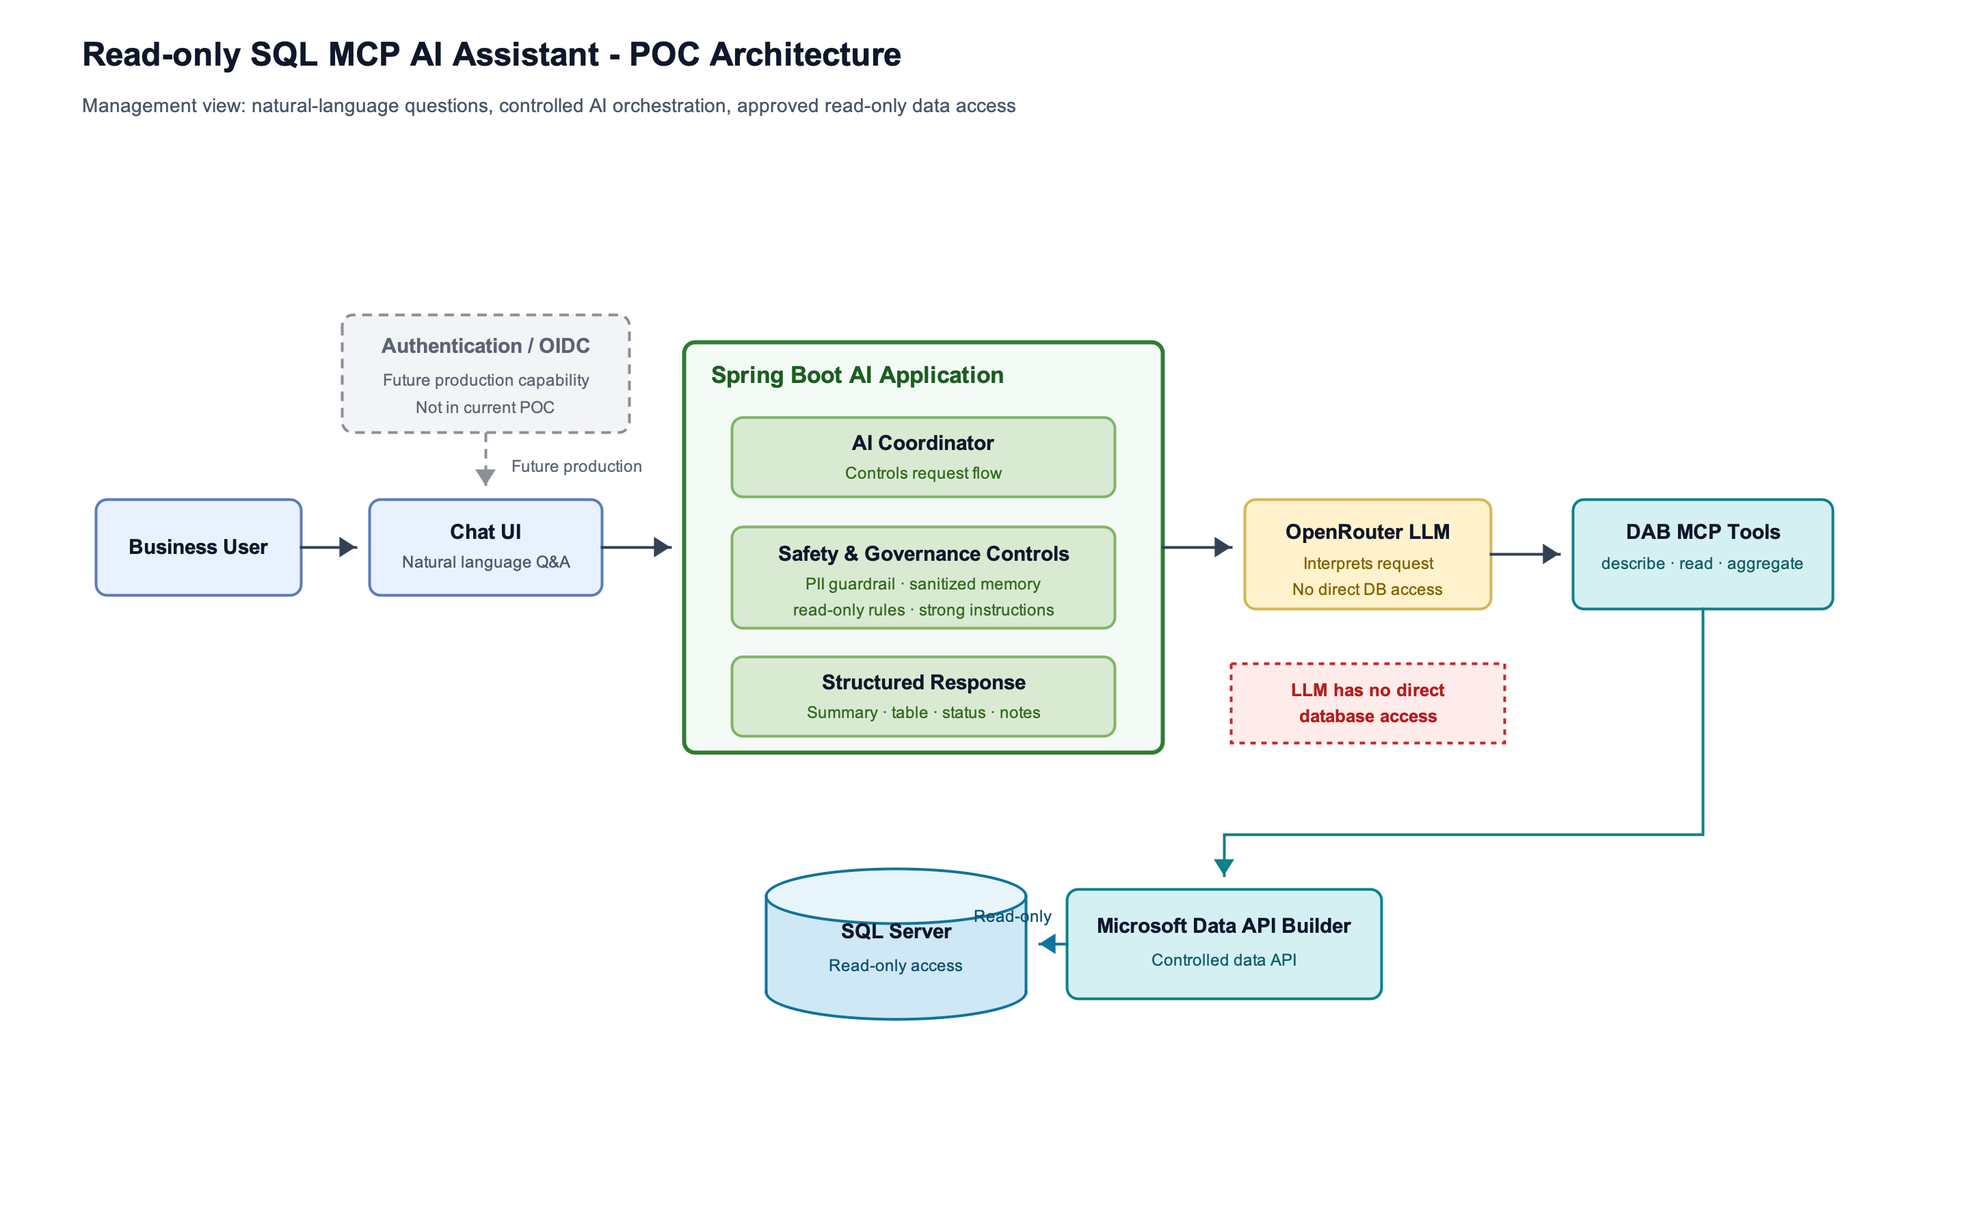
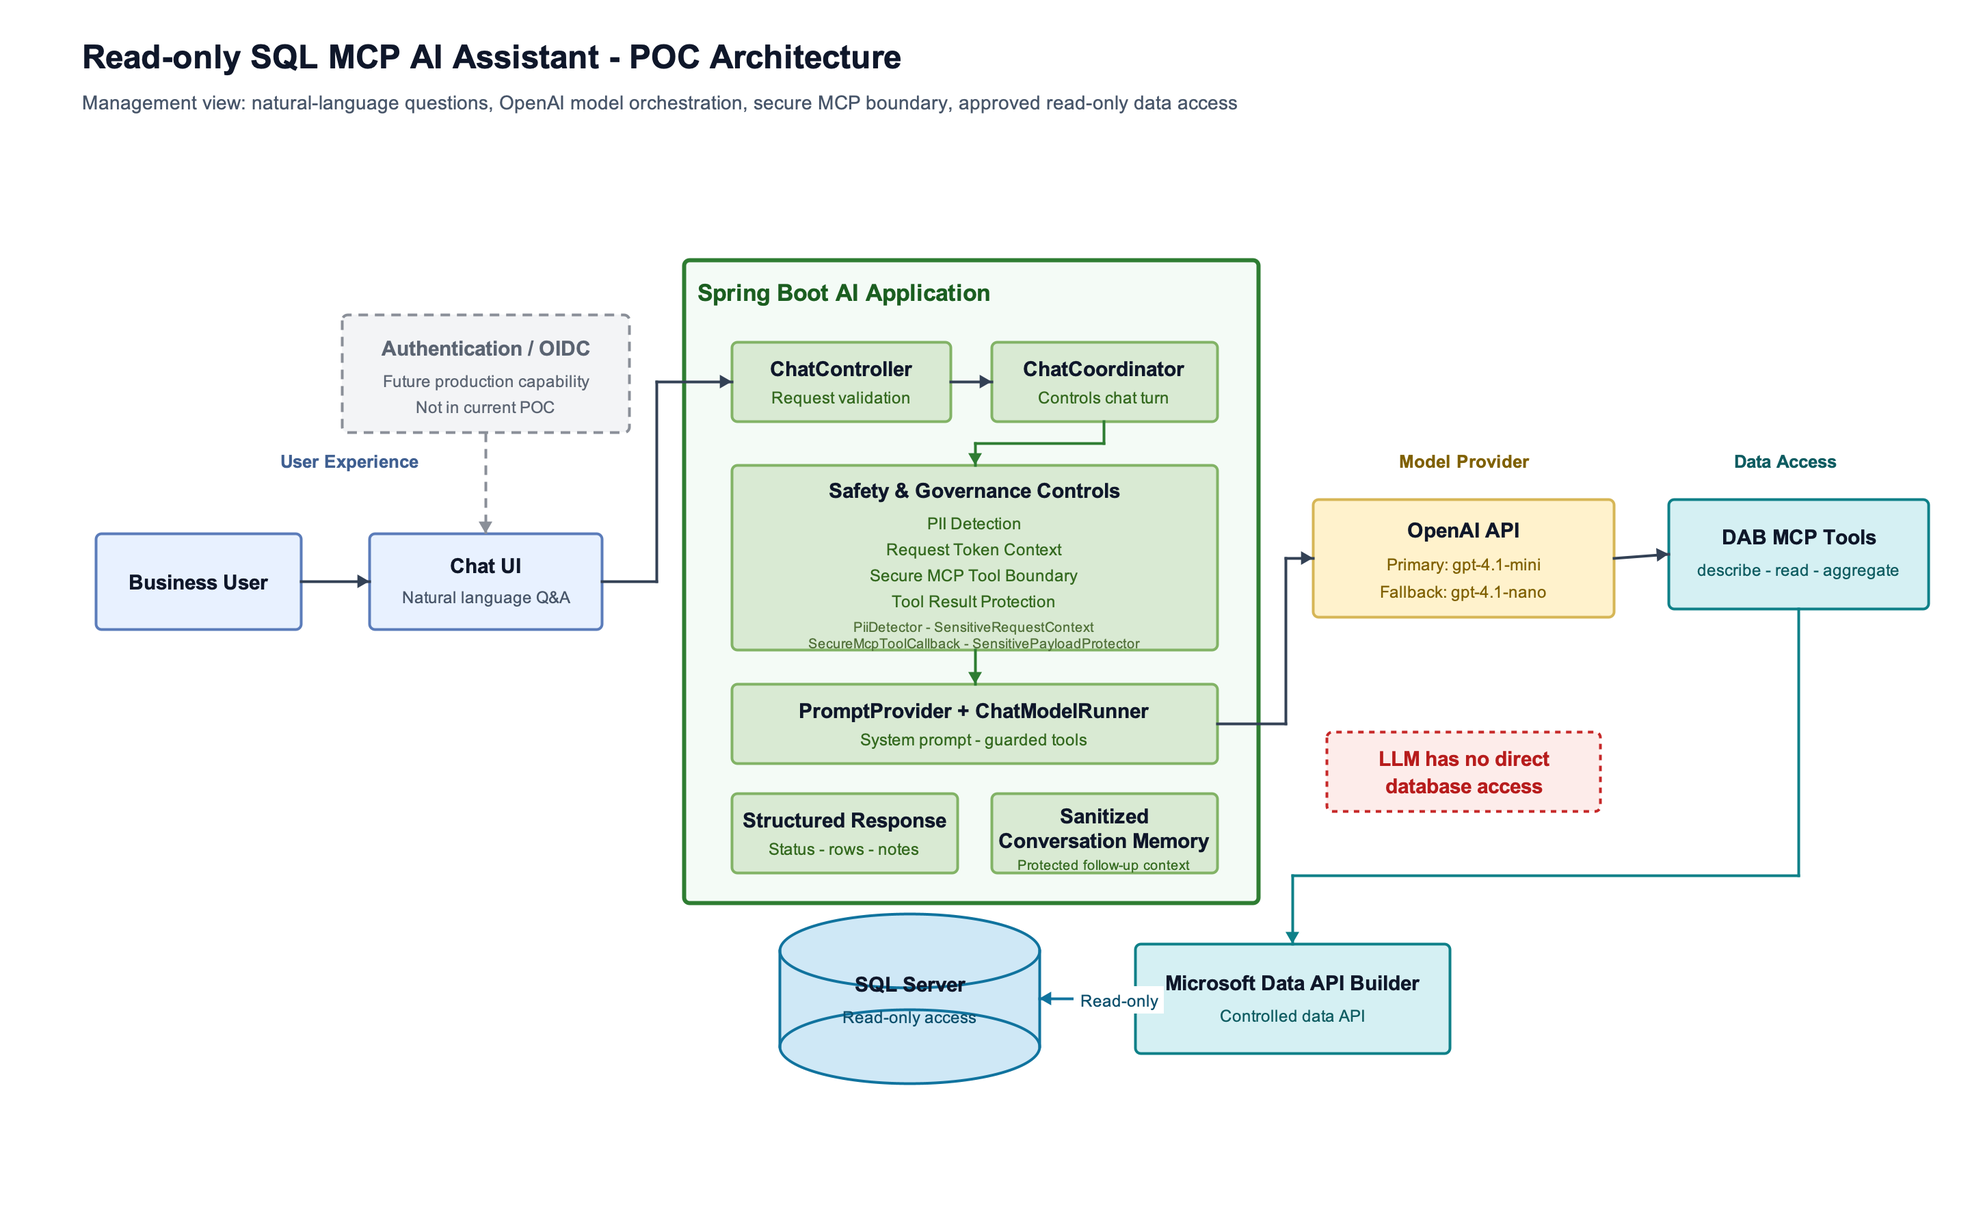
Refresh architecture documentation

diff --git a/docs/interactive-query-flow.html b/docs/interactive-query-flow.html
@@ -453,7 +453,7 @@
     <header>
       <div>
         <h1>Interactive Query Flow</h1>
-        <p class="subtitle">A concise architecture walkthrough for the POC: a natural-language customer question moves through the chat API, PII protection, Spring AI orchestration, approved MCP tooling, Microsoft Data API Builder, SQL Server, sanitized memory, and a policy-aware final UI response.</p>
+        <p class="subtitle">A concise architecture walkthrough for the POC: a natural-language customer question moves through the chat API, request-local PII protection, Spring AI orchestration, a secure MCP tool boundary, Microsoft Data API Builder, SQL Server, sanitized memory, and a policy-aware final UI response.</p>
       </div>
       <section class="query-card" aria-label="Example query">
         <p class="eyebrow">Example request</p>
@@ -525,7 +525,7 @@
       </article>
       <article class="note-card">
         <h3>External Model Boundary</h3>
-        <p>The external LLM receives protected customer tokens rather than raw name, email, or phone values.</p>
+        <p>The OpenAI API receives protected customer tokens rather than raw name, email, or phone values.</p>
       </article>
       <article class="note-card">
         <h3>Governed Data Access</h3>
@@ -553,10 +553,10 @@
         name: "API / Chat Coordinator",
         category: "AI Application",
         type: "app",
-        summary: "The application creates one traceable request lifecycle.",
+        summary: "The application creates one governed request lifecycle.",
         input: "Incoming request:\nmessage = \"give me the details of customer Ethan Thomas\"\nconversationId = active chat session",
-        does: "The chat API forwards the turn to the coordinator. The coordinator attaches a request id, applies guardrails in order, loads safe conversation context, invokes the model runner, writes sanitized memory, and returns a structured response to the UI.",
-        output: "Useful trace detail:\nrequestId = cd16d882\ninputChars = 44\n\nNext handoff:\nSend the raw input to the PII protection layer."
+        does: "The chat API forwards the turn to the coordinator. The coordinator attaches a request id, creates a request-local SensitiveRequestContext, applies guardrails in order, loads safe conversation context, invokes the model runner, writes sanitized memory, and returns a structured response to the UI.",
+        output: "Request context:\nrequestId = cd16d882\ninputChars = 44\nSensitiveRequestContext = created for this chat turn\n\nNext handoff:\nSend the raw input to the PII protection layer."
       },
       {
         name: "PII Protection",
@@ -564,26 +564,26 @@
         type: "app",
         summary: "Sensitive input is tokenized before it reaches the external model.",
         input: "Raw:\nEthan Thomas\n\nFull message:\ngive me the details of customer Ethan Thomas",
-        does: "The application detects the customer name and replaces it with a stable pseudonym. The model path uses the protected text, while the secure token map remains inside the application boundary.",
-        output: "Protected:\nCU_3398e6\n\nLLM input:\ngive me details of customer CU_3398e6\n\nUseful trace detail:\nentities = 1\ntokenTypes = [CU]"
+        does: "PiiDetector detects supported sensitive input such as email, phone, and configured name patterns. SensitiveTokenStore creates request-local tokens, and SensitiveRequestContext keeps the reversible mapping for this chat turn only. The token map remains inside the application boundary.",
+        output: "Protected:\nCU_3398e6\n\nLLM input:\ngive me details of customer CU_3398e6\n\nRequest-local token context:\nentities = 1\ntokenTypes = [CU]\ntoken map is not sent to the model"
       },
       {
         name: "Spring AI + LLM",
         category: "AI Model",
         type: "model",
-        summary: "Spring AI sends protected context and tool definitions to the LLM.",
+        summary: "Spring AI sends protected context and tool definitions to the OpenAI API.",
         input: "Protected user message:\ngive me details of customer CU_3398e6\n\nAvailable tools:\naggregate_records\ndescribe_entities\nread_records",
-        does: "The model reasons over the protected request and approved tool descriptions. It can plan which tool to call, but it cannot connect directly to SQL Server and does not receive raw customer PII.",
-        output: "Model intent:\nFind the Customer record that corresponds to the protected customer token, then return profile fields in the required structured response format.\n\nUseful trace detail:\nmodel = gpt-4.1-mini\nresponseFormat = PROMPT_JSON"
+        does: "Spring AI ChatClient calls the OpenAI API with the protected request. The primary model is gpt-4.1-mini, with gpt-4.1-nano available as a simple fallback. The model can plan which tool to call, but it cannot connect directly to SQL Server and does not receive raw customer PII.",
+        output: "Model intent:\nFind the Customer record that corresponds to the protected customer token, then return profile fields in the required structured response format.\n\nModel provider:\nprovider = OpenAI API\nmodel = gpt-4.1-mini\nfallback = gpt-4.1-nano\nresponseFormat = PROMPT_JSON"
       },
       {
         name: "Approved MCP Tool Call",
         category: "AI Application",
         type: "app",
-        summary: "The application mediates model tool requests before data access.",
+        summary: "SecureMcpToolCallback mediates model tool requests before data access.",
         input: "Model-generated tool call using protected token:\nread_records(Customer, filter containing CU_3398e6)",
-        does: "The application validates the tool call, securely resolves the protected token immediately before calling DAB, and sends only an approved read operation forward. Retries or corrections can happen within this stage when the model tries an invalid filter, an invalid field selection, or an empty lookup.",
-        output: "DAB receives a real lookup value only after secure resolution:\nFullName = Ethan Thomas\n\nUseful trace detail:\nInitial attempts included CustomerId/token mismatch and an empty CustomerId lookup. The corrected lookup used token-resolvable customer fields."
+        does: "SecureMcpToolCallback receives the model tool arguments, detokenizes only at the secure tool boundary, calls DAB MCP, and prevents the model from directly accessing DAB or SQL Server. Retries or corrections can happen within this stage when the model tries an invalid filter, an invalid field selection, or an empty lookup.",
+        output: "DAB receives a real lookup value only after secure resolution:\nFullName = Ethan Thomas\n\nBoundary detail:\nModel sends a protected token.\nSecureMcpToolCallback resolves it immediately before DAB MCP execution.\nThe model never receives direct DAB or SQL Server access."
       },
       {
         name: "Microsoft DAB + SQL Server",
@@ -600,7 +600,7 @@
         type: "app",
         summary: "Raw database PII is protected before returning to the external model.",
         input: "Raw DB result:\nFullName = Ethan Thomas\nEmail = ...\nPhone = ...",
-        does: "The application tokenizes sensitive fields from the tool result before the model continuation. This prevents raw DB PII from going back to the external LLM.",
+        does: "SensitivePayloadProtector tokenizes sensitive fields from the tool result before the model continuation. This prevents raw DB PII from going back to the OpenAI API.",
         output: "Protected result sent to model:\nCustomerId = 11\nFullName = CU_3398e6\nEmail = EM_xxx\nPhone = PH_xxx\nCity = Portland\nStateProvince = Oregon\nCountry = United States\nCreatedDate = 2025-03-01\nLoyaltyTier = Gold"
       },
       {

diff --git a/docs/poc-architecture.md b/docs/poc-architecture.md
@@ -2,7 +2,7 @@
 
 ## Executive summary
 
-This proof of concept (POC) lets business users ask natural-language questions about SQL Server data through an existing chat interface. A single Spring Boot coordinator applies system instructions, sanitized conversation context, PII safeguards, and structured-response handling. The LLM interprets the request but never connects directly to the database: approved Microsoft Data API Builder (DAB) MCP tools mediate access, mutation tools are disabled, and SQL Server access is read-only. Authentication and enterprise authorization are future production capabilities, not features of the current POC.
+This proof of concept (POC) lets business users ask natural-language questions about SQL Server data through an existing chat interface. A single Spring Boot coordinator applies system instructions, sanitized conversation context, request-local PII protection, secure MCP tool boundaries, and structured-response handling. The OpenAI API provides the active model path, using `gpt-4.1-mini` as the primary model with `gpt-4.1-nano` as a simple fallback. The LLM interprets the request but never connects directly to the database: approved Microsoft Data API Builder (DAB) MCP tools mediate access, mutation tools are disabled, and SQL Server access is read-only. Authentication and enterprise authorization are future production capabilities, not features of the current POC.
 
 ## Architecture at a glance
 
@@ -15,8 +15,8 @@ Reading the diagram in one pass:
 | Band | What it shows |
 |---|---|
 | User experience | A business user asks questions through the chat UI. Authentication / OIDC is shown as a future production capability, not part of the current POC. |
-| AI application | The Spring Boot AI Application coordinates the request, applies safety and governance controls, and returns a structured response for the UI. |
-| Model | The OpenAI LLM interprets the request, but it has no direct database access. |
+| AI application | The Spring Boot AI Application coordinates the request, applies safety and governance controls, protects MCP tool boundaries, and returns a structured response for the UI. |
+| Model | The OpenAI API interprets the request through the primary `gpt-4.1-mini` model, with `gpt-4.1-nano` available as fallback. The model has no direct database access. |
 | Data access | DAB MCP tools expose approved describe, read, and aggregate operations through Microsoft Data API Builder. SQL Server access is read-only. |
 
 ## Interactive Layer-by-Layer Query Flow
@@ -28,6 +28,12 @@ Use this walkthrough to see what each layer receives, how it transforms the requ
 ## Plain-English capabilities
 
 **PII Guardrail:** Protects sensitive values such as customer names, emails, phone numbers, and references.
+
+**Request-Local PII Context:** Creates a token context for each chat turn so reversible mappings stay inside the application boundary and are discarded after the turn.
+
+**Secure MCP Tool Boundary:** Detokenizes model tool arguments only immediately before approved DAB MCP execution; the model never talks directly to DAB or SQL Server.
+
+**Tool Result Protection:** Protects raw DAB/MCP results before the model continues, so database PII is not sent back to the external model.
 
 **Sanitized Conversation Memory:** Stores only safe chat context so follow-up questions can work without retaining raw sensitive data.
 
@@ -42,39 +48,48 @@ sequenceDiagram
     participant API as ChatController
     participant Coordinator as ChatCoordinator
     participant Guard as SensitiveDataGuard
+    participant Context as SensitiveRequestContext
     participant Prompt as PromptProvider
     participant Runner as ChatModelRunner
     participant Client as Spring AI ChatClient
-    participant LLM as OpenAI LLM
+    participant LLM as OpenAI API
+    participant ToolGuard as SecureMcpToolCallback
     participant MCP as DAB MCP Tools
     participant DAB as Microsoft DAB
     participant SQL as SQL Server
+    participant Protector as SensitivePayloadProtector
 
     User->>UI: Ask a natural-language question
     UI->>API: Send message and optional conversation ID
     API->>API: Validate request
     API->>Coordinator: Start chat turn
     Coordinator->>Coordinator: Resolve or create conversation ID
-    Coordinator->>Guard: Protect sensitive input
-    Guard-->>Coordinator: Protected message
+    Coordinator->>Guard: Create request-local protection context
+    Guard-->>Coordinator: SensitiveRequestContext
+    Coordinator->>Context: Protect sensitive input
+    Context-->>Coordinator: Protected message and local token map
     Coordinator->>Prompt: Get system instructions
     Coordinator->>Coordinator: Apply sanitized conversation context
     Coordinator->>Runner: Run protected request
     Runner->>Client: Supply prompt, memory, and guarded tools
-    Client->>LLM: Request interpretation and answer
+    Client->>LLM: Request interpretation and answer via gpt-4.1-mini
     LLM-->>Client: Request an approved MCP tool
-    Client->>MCP: Invoke describe, read, or aggregate
+    Client->>ToolGuard: Invoke guarded tool callback
+    ToolGuard->>Context: Detokenize only at tool boundary
+    ToolGuard->>MCP: Invoke describe, read, or aggregate
     MCP->>DAB: Execute approved operation
     DAB->>SQL: Read data
     SQL-->>DAB: Query result
     DAB-->>MCP: Raw tool result
-    MCP->>Guard: Protect sensitive result fields
-    Guard-->>Client: Protected tool result
+    MCP-->>ToolGuard: Raw tool result
+    ToolGuard->>Protector: Protect sensitive result fields
+    Protector-->>ToolGuard: Protected tool result
+    ToolGuard-->>Client: Protected tool result
     Client->>LLM: Continue with protected data
     LLM-->>Client: Structured model content
     Client-->>Runner: Model response
-    Runner->>Guard: Apply final output protection
-    Guard-->>Coordinator: Protected structured content
+    Runner->>Context: Apply final output protection
+    Context-->>Coordinator: Protected structured content
     Coordinator->>Coordinator: Store sanitized turn in memory
     Coordinator-->>API: Structured response
     API-->>UI: Stream UI-ready result
@@ -87,6 +102,9 @@ sequenceDiagram
 - DAB MCP exposes only approved describe, read, and aggregate tools; mutation tools are disabled.
 - SQL Server access uses a dedicated read-only database role.
 - PII is protected in user input, model output, and database tool results.
+- Request-local token mappings are not sent to the LLM.
+- SecureMcpToolCallback detokenizes only immediately before DAB MCP execution.
+- SensitivePayloadProtector protects DAB results before model continuation.
 - Conversation memory stores only sanitized context and remains in memory for the POC.
 - A strong system prompt reinforces read-only behavior, schema grounding, prompt-injection resistance, and hallucination prevention.
 - A typed structured response makes UI rendering predictable and turns parsing failures into controlled errors.
@@ -102,9 +120,16 @@ The diagram uses business-facing labels. This table keeps the responsibilities a
 | Chat UI | Collects questions and renders predictable results. |
 | Spring Boot AI Application | Coordinates request handling, safety controls, model interaction, and UI-ready responses. |
 | AI Coordinator | Controls request flow for each chat turn. |
-| Safety & Governance Controls | Applies PII protection, sanitized memory, read-only rules, and strong instructions. |
+| Safety & Governance Controls | Applies PII protection, request-local token handling, secure tool boundaries, sanitized memory, read-only rules, and strong instructions. |
+| SensitiveDataGuard | Application-level facade and factory for sensitive-data protection on each chat turn. |
+| SensitiveRequestContext | Request-local PII/token context for one chat turn. |
+| PiiDetector | Detects deterministic PII such as email, phone, and supported name patterns. |
+| SensitiveTokenStore | Keeps request-local reversible token mappings inside the application boundary. |
+| SecureMcpToolCallback | Secure boundary around MCP/DAB tool execution; detokenizes only before the approved tool call. |
+| SensitivePayloadProtector | Protects raw DAB/MCP tool results before they return to the model. |
+| ToolCallIntent | Supports MCP tool intent and diagnostic handoff messages. |
 | Structured Response | Formats status, message, columns, rows, and notes for the UI. |
-| OpenAI LLM | Interprets the request and requests approved tools; it has no direct database connection. |
+| OpenAI API | Provides the primary `gpt-4.1-mini` model and fallback `gpt-4.1-nano`; the model requests approved tools and has no direct database connection. |
 | DAB MCP Tools | Provides approved describe, read, and aggregate operations. |
 | Microsoft Data API Builder | Mediates the configured entities and permitted data operations. |
 | SQL Server | Stores source data and enforces read-only access. |
@@ -115,11 +140,16 @@ The diagram uses business-facing labels. This table keeps the responsibilities a
 | Current POC | Future / Production |
 |---|---|
 | Natural-language database questions | Production authentication with OIDC |
-| Read-only data access | Role-based authorization (RBAC) |
-| Structured UI response | AI evaluation and regression testing |
-| PII-safe output and protected tool results | Schema RAG if schema size or complexity grows |
-| Simple follow-up context using sanitized memory | Multi-agent orchestration only if distinct business domains require it |
+| OpenAI API provider | Role-based authorization (RBAC) |
+| Primary `gpt-4.1-mini` and fallback `gpt-4.1-nano` model setup | AI evaluation and regression testing |
+| Read-only data access | Semantic PERSON/NER detection |
+| Split security package | Optional custom DAB stored-procedure tools for partial/fuzzy search |
+| Request-local token context | Schema RAG only if schema size or complexity requires it later |
+| Secure MCP tool boundary | Multi-agent orchestration only if distinct business domains require it |
+| Tool result PII protection |  |
+| Structured UI response |  |
+| Simple follow-up context using sanitized memory |  |
 
 ## How to explain this POC in one minute
 
-> This POC demonstrates a controlled way to connect AI with enterprise SQL data. The user asks a natural-language question. The Spring Boot application applies PII protection, strong instructions, conversation context, and structured response handling. The LLM helps interpret the request, but it does not directly access the database. Data access happens only through Microsoft DAB MCP tools using read-only SQL Server access.
+> This POC demonstrates a controlled way to connect AI with enterprise SQL data. The user asks a natural-language question. The Spring Boot application applies request-local PII protection, secure MCP tool boundaries, strong instructions, conversation context, and structured response handling. The OpenAI API helps interpret the request through the primary model, but it does not directly access the database. Data access happens only through Microsoft DAB MCP tools using read-only SQL Server access.

diff --git a/pending-implementations.md b/pending-implementations.md
@@ -1,0 +1,5 @@
+1. For names like John, John Smith, Ethan Thomas, etc., I recommended not relying only on sentence-specific regexes. Instead, use a local/in-process NER or approved enterprise PII detector to identify PERSON entities
+2. Deployment to cloud server
+3. github actions for CI/CD
+4. RAG and Vector DB integration
+5. Prompt changes - llm should be derive any complex query having cotains, like, startswith, etc.. it should be able to dervie
